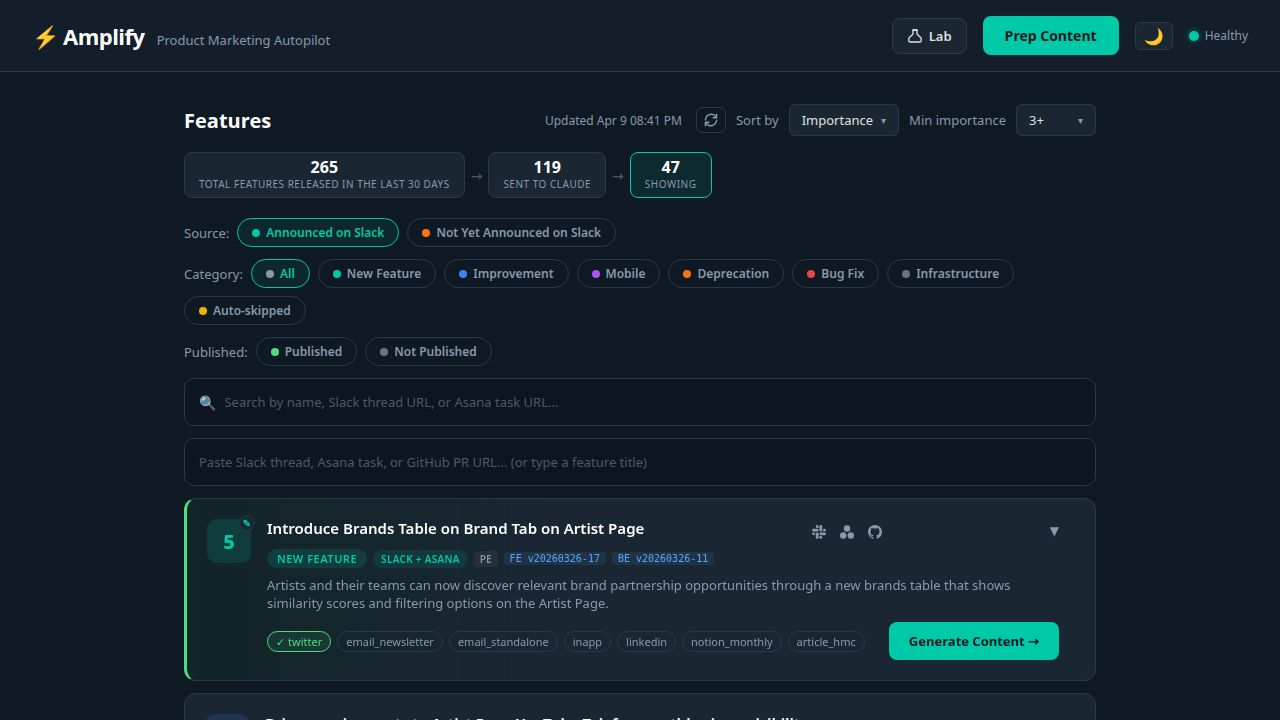
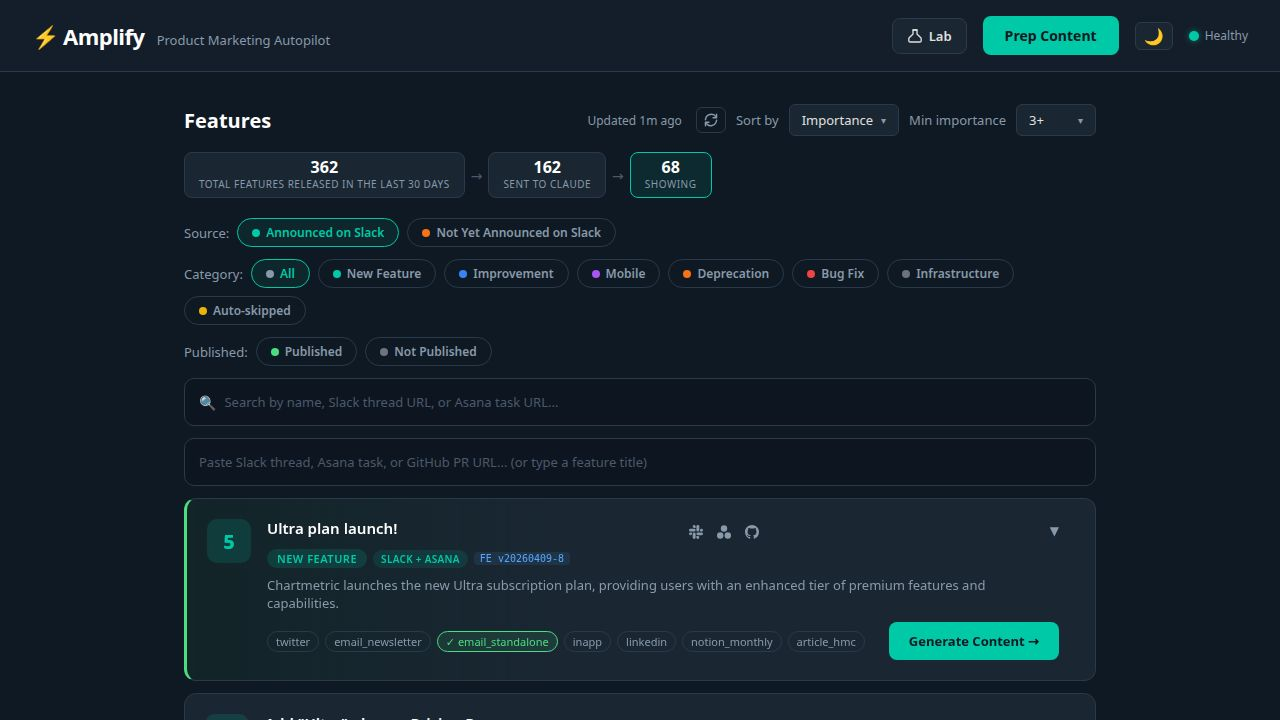
Fix rendering issue to show all content channel cards
Correctly define a variable within the scope of the card rendering function to resolve a JavaScript error that prevented subsequent channel cards from displaying after the initial Twitter card.

Replit-Commit-Author: Agent
Replit-Commit-Session-Id: 5d10be96-72f3-4b16-8aa0-a731f1a43fe0
Replit-Commit-Checkpoint-Type: full_checkpoint
Replit-Commit-Event-Id: d1673b3e-4827-4395-8ba0-d763425b25ad
Replit-Commit-Screenshot-Url: https://storage.googleapis.com/screenshot-production-us-central1/ca747979-f83f-4064-8c7b-8a5e1528f48e/5d10be96-72f3-4b16-8aa0-a731f1a43fe0/dbtagk2
Replit-Helium-Checkpoint-Created: true

diff --git a/artifacts/amplify/templates/dashboard.html b/artifacts/amplify/templates/dashboard.html
@@ -3862,8 +3862,9 @@ function enterContentView(feature) {
                 card.classList.add('fade-in-up');
                 card.style.animationDelay = (idx * 100) + 'ms';
                 grid.appendChild(card);
+                var isEmailCh = (chKey === 'email_newsletter' || chKey === 'email_standalone');
                 if (chKey === 'email_standalone') loadResendAudiences(chKey);
-                if (isEmail) loadResendTemplates(chKey);
+                if (isEmailCh) loadResendTemplates(chKey);
                 if (contentViewApproved[chKey]) updateChannelStatus(chKey);
                 if (contentViewPublished[chKey]) updateChannelStatus(chKey);
                 idx++;